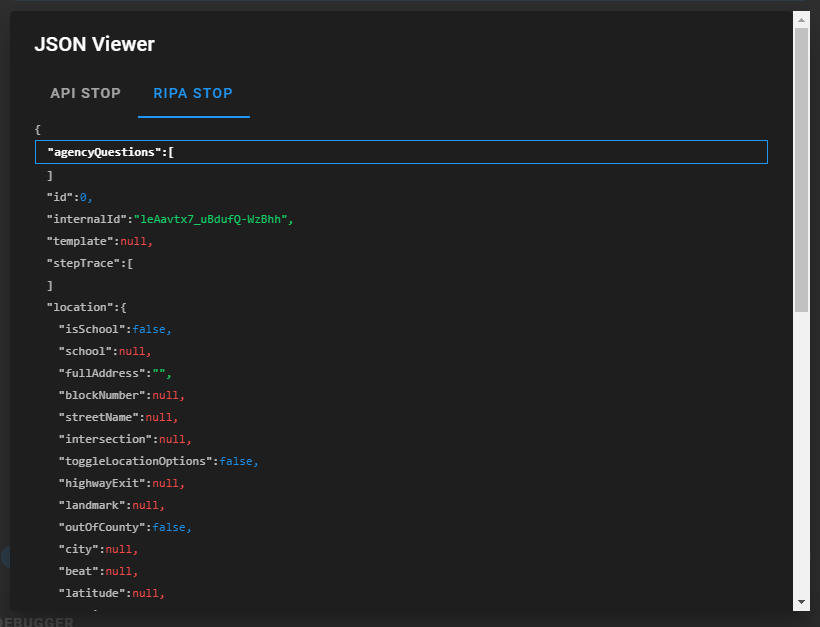
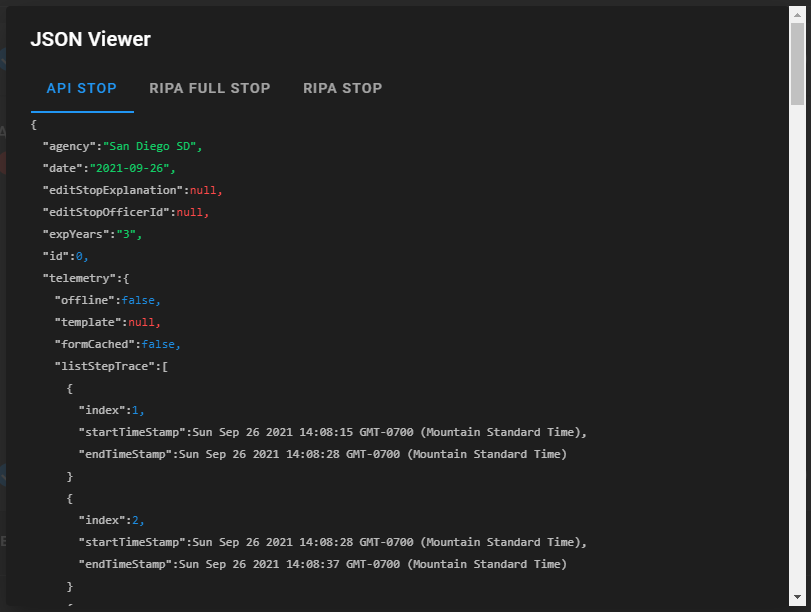
Updated STOP Debugger docs & cleaned up others

diff --git a/Documentation/MARKETPLACE.md b/Documentation/MARKETPLACE.md
@@ -1,6 +1,6 @@
-# Cal-RIPA
+# Cal-RIPA Azure Marketplace
 
-## Installation CSSA RIPA Web Application from the Azure Marketplace Private Offerings
+## Installing CSSA RIPA Web Application from the Azure Marketplace Private Offerings
 
 First, you must work with the CSSA team to get an Azure subscription setup for you. Then you can follow these instructions to install an instance of the application.
 
@@ -26,26 +26,26 @@ First, you must work with the CSSA team to get an Azure subscription setup for y
 | ![Step 6](./assets/RIPA-Installation-Step-06.png) |
 |-
 
-   1. Be sure to select the correct Subscription.
-   2. Create a new or select an existing Resource Group.
-   3. It is suggested to leave the "Region" as "USGov Arizona" as this is the closest region to California.
-   4. Pick your agency from the dropdown list.
-   5. Choose an appropriate name for this installation. like "ripa-test" for a test system installation or "ripa" for a production system.
+1.  Be sure to select the correct Subscription.
+2.  Create a new or select an existing Resource Group.
+3.  It is suggested to leave the "Region" as "USGov Arizona" as this is the closest region to California.
+4.  Pick your agency from the dropdown list.
+5.  Choose an appropriate name for this installation. like "ripa-test" for a test system installation or "ripa" for a production system.
 
-      1. You will be limited to the length desplayed in the message because the system is designed to standardize Azure resource names and Azure has certain limits we must abide by.
+    1. You will be limited to the length desplayed in the message because the system is designed to standardize Azure resource names and Azure has certain limits we must abide by.
 
-   6. Select the envirnment type for this installation. The choices are DEV, QA & PROD. DEV & QA change the UI to have color coded headers to make it easy to identify NON-PROD installations.
-   7. Select the "Enable officer beats" checkbox if you want to use the "Beats" UI compnents (i.e. the STOP will require the user to select a Beat). This can be turned on or off later on based on these instructions [Configuring Beats](./BEATS.md).
-   8. Select the "Enable STOP data debugger" if you want to access the STOP data debugger (a screen element that lets you view the current STOP data). This can be turned on or off later on based on these instructions [Configuring STOP Data Debugger](./STOP-DEBUGGER.md).
+6.  Select the envirnment type for this installation. The choices are DEV, QA & PROD. DEV & QA change the UI to have color coded headers to make it easy to identify NON-PROD installations.
+7.  Select the "Enable officer beats" checkbox if you want to use the "Beats" UI compnents (i.e. the STOP will require the user to select a Beat). This can be turned on or off later on based on these instructions [Configuring Beats](./BEATS.md).
+8.  Select the "Enable STOP data debugger" if you want to access the STOP data debugger (a screen element that lets you view the current STOP data). This can be turned on or off later on based on these instructions [Configuring STOP Data Debugger](./STOP-DEBUGGER.md).
 
-7. In this step (Application Domain) you can choose to use the DNS & SSL Certificate provided by CSSA or you can bring you own certificate and DNS records. The easiest and recomended approach is to use the CSSA option.
+9.  In this step (Application Domain) you can choose to use the DNS & SSL Certificate provided by CSSA or you can bring you own certificate and DNS records. The easiest and recomended approach is to use the CSSA option.
 
-   1. It is strongly recomended that you highlight and copy the DNS host name {appName-agency}.cssa.cloud for example. You will most likely need to reference it later and you will provide it to the end users so they can access the application.
+    1.  It is strongly recomended that you highlight and copy the DNS host name {appName-agency}.cssa.cloud for example. You will most likely need to reference it later and you will provide it to the end users so they can access the application.
 
-8. On the (Authentication) tab you will enter the information generated from the script you ran in "Step 1 (Create Authentication Scheme)" above.
+10. On the (Authentication) tab you will enter the information generated from the script you ran in "Step 1 (Create Authentication Scheme)" above.
 
-   1. Be sure to provide at least the first 3 fields, FQDN, AppId & TenantId.
-   2. Logout URL is not required but helpful if youwish your end users to log out of everywhere from the applcation. This is unusual.
+    1.  Be sure to provide at least the first 3 fields, FQDN, AppId & TenantId.
+    2.  Logout URL is not required but helpful if youwish your end users to log out of everywhere from the applcation. This is unusual.
 
 | ![Step 8](./assets/RIPA-Installation-Step-08.png) |
 |-

diff --git a/Documentation/STOP-DEBUGGER.md b/Documentation/STOP-DEBUGGER.md
@@ -1,4 +1,4 @@
-# Cal-RIPA
+# Cal-RIPA STOP Debugger
 
 ## STOP Data Debugger
 
@@ -11,14 +11,19 @@ Follow the [application configuration](./APP-CONFIG.md) instruction to edit the 
 
 ### What do I see?
 
-The STOP Data Debugger has 2 sections (tabs). The "RIPA STOP" tab shows the json data that is used internally to the UI. This json structure never leaves the UI as it is translated to the "API STOP" json object before being sent to the backend STOP API. The "API STOP" is as it sounds the contract between the user interface and the STOP Azure Function APIs.
-
-### RIPA STOP
-
-| ![RIPA STOP](./assets/RIPA-STOP-Data-Debugger-02.png) |
-|-
+The STOP Data Debugger has 3 sections (tabs). The "RIPA FULL STOP" tab shows the json data that is used internally to the UI. This json structure never leaves the UI as it is translated to the "API STOP" json object before being sent to the backend STOP API. The "API STOP" is as it sounds the contract between the user interface and the STOP Azure Function APIs. The "RIPA STOP" is the base template used to instantiate the RIPA FULL STOP object. This could be the "Basic STOP" that all RIPA applications have
 
 ### API STOP
 
-| ![API STOP](./assets/RIPA-STOP-Data-Debugger-03.png) |
+| ![API STOP](./assets/RIPA-STOP-Data-Debugger-02.png) |
+|-
+
+### RIPA FULL STOP
+
+| ![RIPA FULL STOP](./assets/RIPA-STOP-Data-Debugger-03.png) |
+|-
+
+### RIPA STOP
+
+| ![RIPA STOP](./assets/RIPA-STOP-Data-Debugger-04.png) |
 |-

diff --git a/Documentation/AUTHENTICATION.md b/Documentation/AUTHENTICATION.md
@@ -1,6 +1,6 @@
-# Cal-RIPA
+# Cal-RIPA Azure Active Directory
 
-## Authentication & Authorization
+## Creating AAD Authentication & Authorization
 
 CSSA RIPA uses Azure Active Directory (AAD) OAuth w/OpenID Connect (OIDC) & Role Based Access Control (RBAC) for authentication and authorization. Each deployment of CSSA RIPA requires an authentication configuration in order to ensure users abillities & access. Click [here](https://docs.microsoft.com/en-us/azure/active-directory/fundamentals/auth-oidc) to learn more about OAuth & OIDC in Azure.
 

diff --git a/Documentation/APP-CONFIG.md b/Documentation/APP-CONFIG.md
@@ -1,4 +1,4 @@
-# RIPA Application Configuration File
+# Cal-RIPA Application Configuration File
 
 ## How to locate and edit the config.json file
 

diff --git a/Documentation/INSTALLATION.md b/Documentation/INSTALLATION.md
@@ -1,4 +1,4 @@
-# RIPA Installation Instructions
+# Cal-RIPA Installation
 
 ## How to install and configure your RIPA application instance
 

diff --git a/Documentation/DOMAIN-LISTS.md b/Documentation/DOMAIN-LISTS.md
@@ -1,3 +1,3 @@
-# Cal-RIPA
+# Cal-RIPA Domain List Maintenance
 
 In progress and coming soon!

diff --git a/Documentation/ARCHITECTURE.md b/Documentation/ARCHITECTURE.md
@@ -1,3 +1,3 @@
-# Cal-RIPA
+# Cal-RIPA System Architecture
 
 In progress and coming soon!

diff --git a/Documentation/AGENCY-QUESTIONS.md b/Documentation/AGENCY-QUESTIONS.md
@@ -1,4 +1,4 @@
-# Cal-RIPA
+# Cal-RIPA Agency Questions
 
 ## Agency specific questions
 

diff --git a/Documentation/USER-IMPORT.md b/Documentation/USER-IMPORT.md
@@ -1,4 +1,4 @@
-# Cal-RIPA
+# Cal-RIPA User Import
 
 ## Existing User Profile Import
 

diff --git a/Documentation/BEATS.md b/Documentation/BEATS.md
@@ -1,4 +1,4 @@
-# Cal-RIPA
+# Cal-RIPA Beats
 
 ## STOP Beats
 
